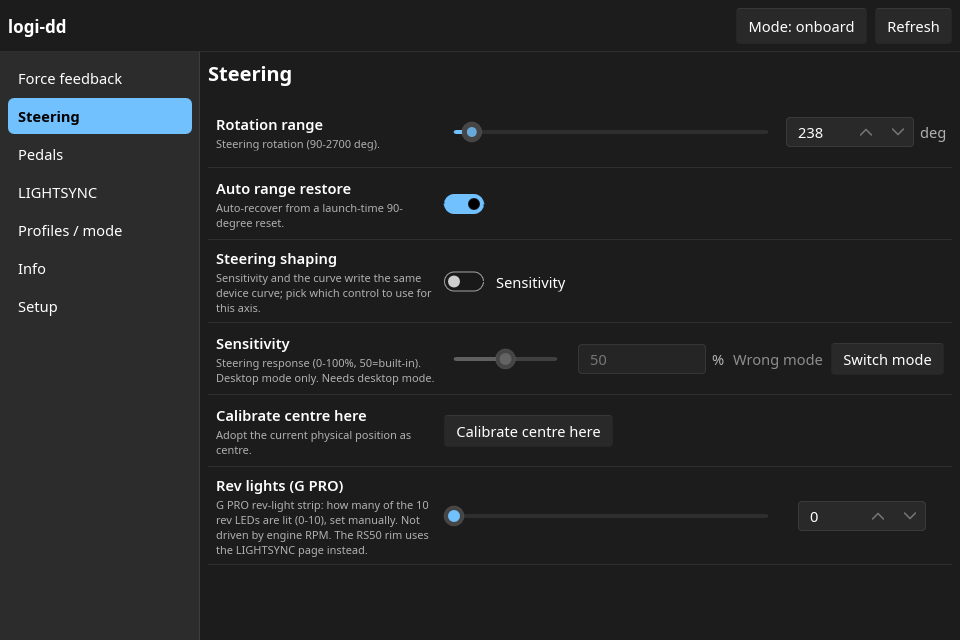
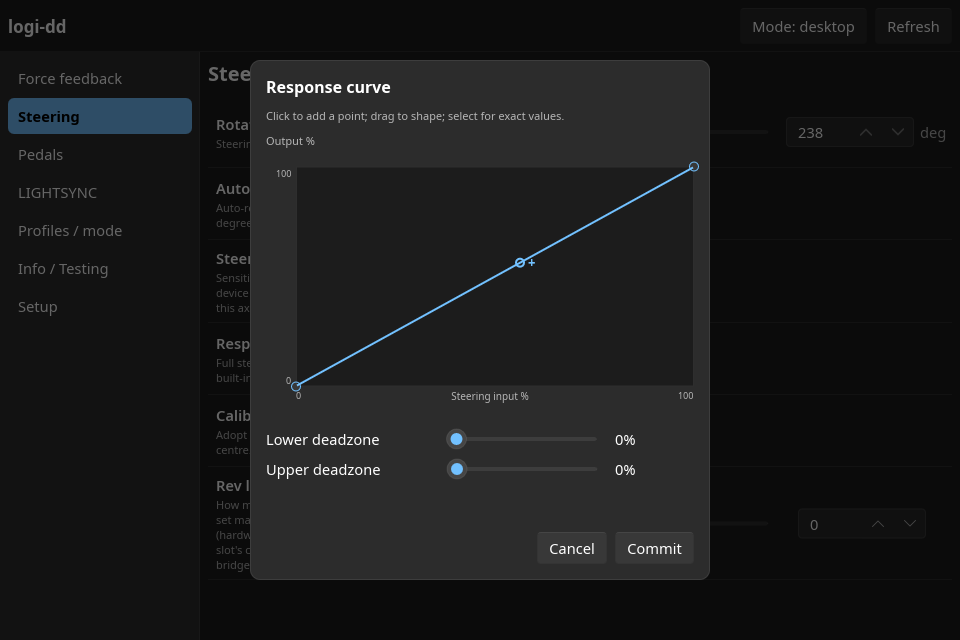
docs: refresh and expand the GUI screenshots
All four shot against the release candidate: the settings page, the
curve editor with its new legends, Info / Testing with the input
tester and version rows, and the Setup page with per-game shim and
helper resolution.

diff --git a/README.md b/README.md
@@ -138,6 +138,13 @@ curve editor.
 
 ![logi-dd-gui curve editor](docs/images/logi-dd-curve-editor.png)
 
+The Info / Testing page doubles as a live input tester (does this button
+reach the computer?), and the Setup page manages the game helpers:
+
+![logi-dd-gui Info / Testing](docs/images/logi-dd-info-testing.png)
+
+![logi-dd-gui Setup](docs/images/logi-dd-setup.png)
+
 ```bash
 cd userspace/logi-dd && cargo build --release
 ./target/release/logi-dd-gui    # desktop app; ./target/release/logi-dd for the TUI